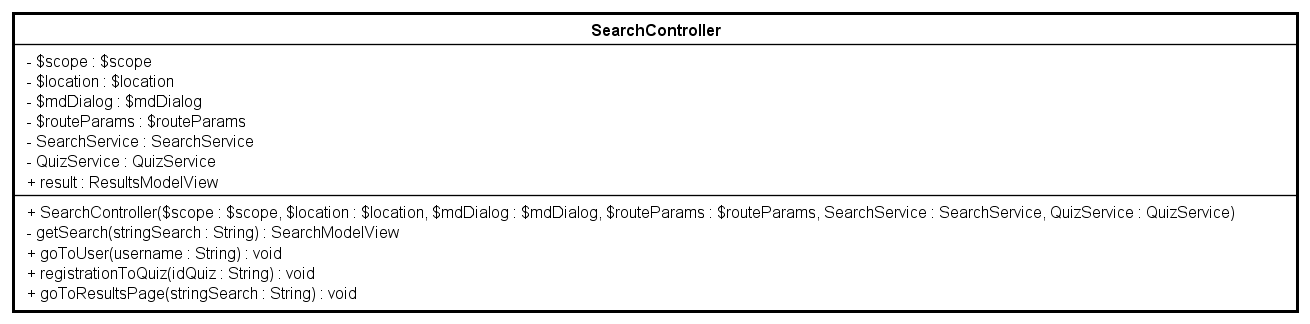
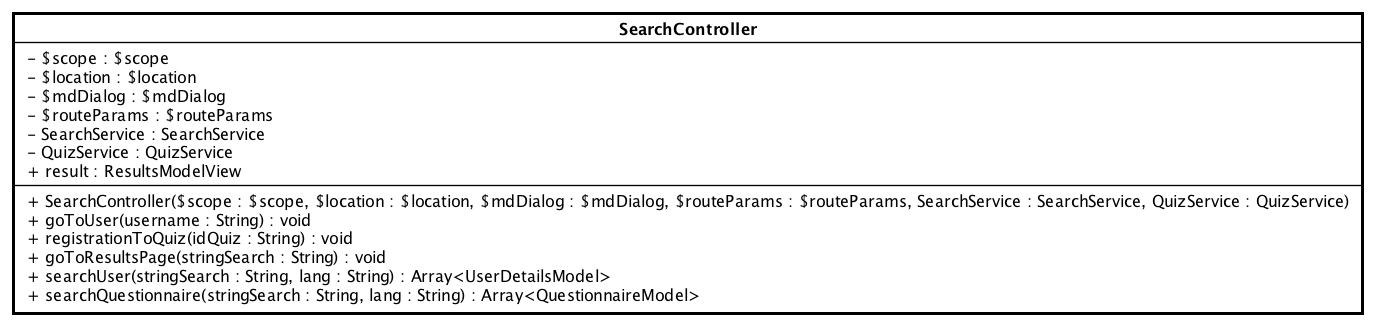
Update controller FE

Changed region(s): [[0.0, 0.0617, 1.0, 0.9259]]

diff --git a/RQ/DefinizioneDiProdotto/sezioni/Front-End/Controllers/QuizziPedia_Front-End_Controllers_UserDetailsController.tex b/RQ/DefinizioneDiProdotto/sezioni/Front-End/Controllers/QuizziPedia_Front-End_Controllers_UserDetailsController.tex
@@ -34,12 +34,36 @@
 			Parametro contenente il riferimento all'oggetto globale \$rootScope creato da \textit{An-\\gular\ped{G}}. Viene utilizzato per rendere accessibile a tutti i \textit{controller\ped{G}} e a tutte le \textit{view\ped{G}} l'oggetto \texttt{UserDetailsModel}. In questo caso viene utilizzato per inserire in \$rootScope l'oggetto di ritorno della chiamata a \texttt{getUserDetails} del \textit{service\ped{G}} \texttt{UserDetai-\\lsService};
 			\item \texttt{\$mdDialog: \$mdDialog} \\
 			Campo dati contenente un riferimento al servizio della libreria \textit{Material for Angul-\\ar\ped{G}} che permette di creare delle componenti a pop-up;
-			\item \texttt{userDetailsService: userDetailsService}: parametro che permette di ottenere, tramite il \textit{service\ped{G}}, la lista di tutti i dati dell'utente.
+			\item \texttt{userDetailsService: userDetailsService}: parametro che permette di ottenere, tramite il \textit{service\ped{G}}, la lista di tutti i dati dell'utente;
 		\end{itemize}
 		\item \texttt{-} \texttt{getUserDetails(username: String): UserDetailsModel} \\ Metodo che permette di ottenere i dati con una chiamata a \texttt{UserDetailsService}.
 		\textbf{Parametri}:
 		\begin{itemize}
 			\item \texttt{username: String}: parametro che identifica l'utente del quale saranno scaricati i dati.
+		\end{itemize}
+		\item \texttt{-} \texttt{getStatistics(username: String): Object} \\ 
+		Metodo che permette di ottenere le statistiche di un utente grazie all'utilizzo di \texttt{UserDetailsService}. \\
+		\textbf{Parametri}: 
+		\begin{itemize}
+			\item \texttt{username: String} \\
+			Parametro contenente la stringa username utilizzata per poter recuperare le giuste statistiche attraverso lo \texttt{StatisticsService}.
+		\end{itemize}
+		\item \texttt{-} \texttt{graphResultAfterFinischedTraining(statistics Array<String>): void} \\ 
+		Metodo che permette di gestire il grafico dei risultati al termine di un allenamento. \\
+		\textbf{Parametri}: 
+		\begin{itemize}
+			\item \texttt{statistics : Array<String>} \\
+			Parametro contenente le statistiche dell'utente.
+		\end{itemize}
+		\item \texttt{-} \texttt{loadDoneQuizzes(lang: String): Object} \\ Metodo che richiede al \textit{service\ped{G}} i dettagli dei questionari eseguiti dall'utente. \\
+		\textbf{Parametri}:
+		\begin{itemize}
+			\item \texttt{lang: String}: lingua necessaria per la richiesta al backend
+		\end{itemize}
+		\item \texttt{-} \texttt{loadAbilitatedQuizzes(lang: String): Object} \\Metodo che ritorna i questionari a cui l'utente è iscritto. \\
+		\textbf{Parametri}:
+		\begin{itemize}
+			\item \texttt{lang: String}: lingua necessaria per la richiesta al backend.
 		\end{itemize}
 	\end{itemize}
 \end{itemize}

diff --git a/RQ/DefinizioneDiProdotto/sezioni/Front-End/Controllers/QuizziPedia_Front-End_Controllers_SearchController.tex b/RQ/DefinizioneDiProdotto/sezioni/Front-End/Controllers/QuizziPedia_Front-End_Controllers_SearchController.tex
@@ -49,12 +49,23 @@
 			\item \texttt{QuizService: QuizService} \\
 			Parametro contenente un riferimento al servizio che si occupa della gestione delle informazioni legate ai questionari. Viene utilizzato il metodo \texttt{subscribeQuestio-\\nnaire} di \texttt{QuizService} per iscrivere un utente ad un questionario.
 		\end{itemize} 
-		\item \texttt{-} \texttt{getSearch(stringSearch: String): SearchModelView} \\
-		Metodo che esegue la ricerca utilizzando un metodo fornito dalla classe \texttt{SearchService}. \\
+		\item \texttt{-} \texttt{searchUser(stringSearch: String, lang: String): Array<UserDetailsModel>} \\
+		Metodo che esegue la ricerca tra gli utenti tramite un metodo fornito dalla classe \texttt{SearchService}. \\
 		\textbf{Parametri}:
 		\begin{itemize}
 			\item \texttt{stringSearch: String} \\
-			Parametro contenente la stringa sulla quale si deve basare la ricerca.
+			Parametro contenente la stringa sulla quale si deve basare la ricerca;
+			\item \texttt{lang: String} \\
+			Parametro contenente la lingua per la richiesta al backend.
+		\end{itemize} 
+		\item \texttt{-} \texttt{searchQuestionnaire(stringSearch: String): QuestionnaireModel} \\
+		Metodo che esegue la ricerca tra i questionari tramite un metodo fornito dalla classe \texttt{SearchService}. \\
+		\textbf{Parametri}:
+		\begin{itemize}
+			\item \texttt{stringSearch: String} \\
+			Parametro contenente la stringa sulla quale si deve basare la ricerca;
+			\item \texttt{lang: String} \\
+			Parametro contenente la lingua per la richiesta al backend.
 		\end{itemize} 
 		\item \texttt{+} \texttt{goToUser(username: String): void} \\
 		Metodo che gestisce l'evento click sul bottone per visualizzare il profilo dell'utente selezionato. Effettua il redirect alla pagina dell'utente.\\

diff --git a/RQ/DefinizioneDiProdotto/sezioni/Front-End/QuizziPedia_Front-End_Controllers.tex b/RQ/DefinizioneDiProdotto/sezioni/Front-End/QuizziPedia_Front-End_Controllers.tex
@@ -81,7 +81,6 @@ Campo dati contenente il riferimento alla classe che rappresenta le informazioni
 \input{sezioni/Front-End/Controllers/QuizziPedia_Front-End_Controllers_NewQuestionsButtonController.tex}
 \input{sezioni/Front-End/Controllers/QuizziPedia_Front-End_Controllers_PasswordForgotController.tex}
 \input{sezioni/Front-End/Controllers/QuizziPedia_Front-End_Controllers_ProfileManagementController.tex}
-\input{sezioni/Front-End/Controllers/QuizziPedia_Front-End_Controllers_QuestionnaireDetailsController.tex}
 \input{sezioni/Front-End/Controllers/QuizziPedia_Front-End_Controllers_QuestionnaireManagementController.tex}
 \input{sezioni/Front-End/Controllers/QuizziPedia_Front-End_Controllers_QuestionsController.tex}
 \input{sezioni/Front-End/Controllers/QuizziPedia_Front-End_Controllers_QuestionsManagementController.tex}
@@ -90,7 +89,6 @@ Campo dati contenente il riferimento alla classe che rappresenta le informazioni
 \input{sezioni/Front-End/Controllers/QuizziPedia_Front-End_Controllers_ResultsQuestionnaireController.tex}
 \input{sezioni/Front-End/Controllers/QuizziPedia_Front-End_Controllers_SearchController.tex}
 \input{sezioni/Front-End/Controllers/QuizziPedia_Front-End_Controllers_SignUpController.tex}
-\input{sezioni/Front-End/Controllers/QuizziPedia_Front-End_Controllers_StatisticsController.tex}
 \input{sezioni/Front-End/Controllers/QuizziPedia_Front-End_Controllers_StringsSortingQuestionsController.tex}
 \input{sezioni/Front-End/Controllers/QuizziPedia_Front-End_Controllers_TopicKeywordsController.tex}
 \input{sezioni/Front-End/Controllers/QuizziPedia_Front-End_Controllers_TrainingController.tex}
